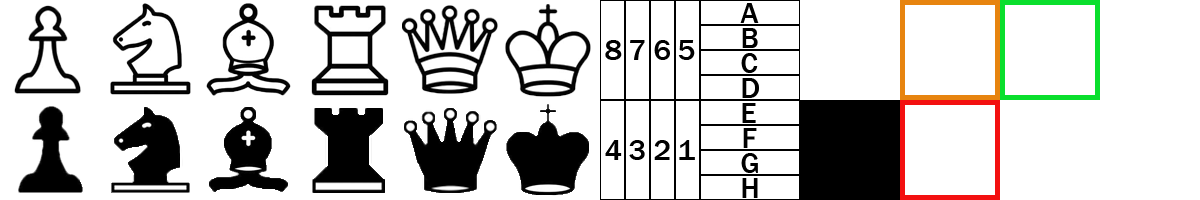
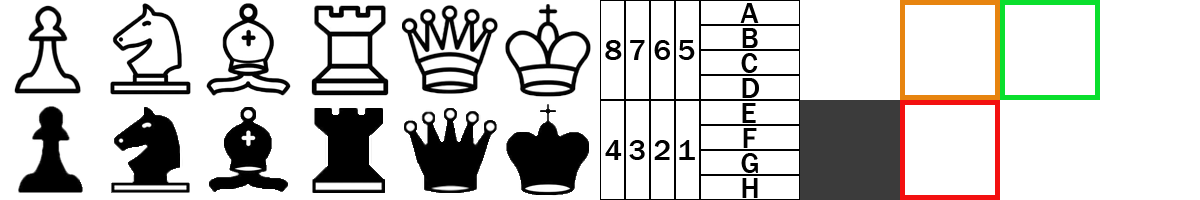
Added function handleFieldClick() - it give possiblity for user to move

Changed region(s): [[0.6475, 0.48, 0.7708, 1.0]]

diff --git a/lab_3_project/Game.cpp b/lab_3_project/Game.cpp
@@ -191,12 +191,13 @@ void Game::exec() {
 //	sf::CircleShape shape(100.f);
 //	shape.setFillColor(sf::Color::Green);
 
+	/*
 	for (std::size_t i = 0; i < 8; i++) {
 		for(std::size_t j = 0; j < 8; j++) {
 			std::cout << Point(i,j) << ": " << Point(i, j).getString() << std::endl;
 		}
 	}
-
+	*/
 //	sf::Texture texture;
 //	texture.loadFromFile("img/field.jpg");
 
@@ -223,12 +224,18 @@ void Game::exec() {
 				std::cout << "w = " << w << std::endl << std::endl;
 			}
 			*/
+			if (cur_player == Player::user) {
+				if (event.type == sf::Event::MouseButtonPressed) {
+					int x = event.mouseButton.x / w;
+					int y = event.mouseButton.y / w;
+					std::cout << "Mouse pressed: (" << event.mouseButton.x << "; " << event.mouseButton.y << ") " << " =  (" << x << "; " << y << ") " << std::endl;
 
-			if (event.type == sf::Event::MouseButtonPressed) {
-				int x = event.mouseButton.x;
-				int y = event.mouseButton.y;
-				std::cout << "Mouse pressed: (" << x << "; " << y  << ") " << std::endl;
+					if (x >= 2 && x <= 9 && y >= 1 && y <= 8) {
+						handleFieldClick(Point(x - 2, 8 - y));
+					}
+				}
 			}
+			
 		}
 
 		update(window);
@@ -814,11 +821,11 @@ void Game::displayField(sf::RenderWindow& window) {
 				cell.setTextureRect(sf::IntRect(9 * w0, w0, w0, w0));
 			}
 			else if (field.cells[i][j].selected) {
-				cell.setTextureRect(sf::IntRect(9 * w0, 0, w0, w0));
+				cell.setTextureRect(sf::IntRect(10 * w0, 0, w0, w0));
 			}
 			window.draw(cell);
 
-			// draw figure
+			// draw figures
 			Figure* f = field.cells[i][j].figure;
 			if (f) {
 				if (f->color == Color::white) {
@@ -894,4 +901,70 @@ std::string Point::getString() const {
 	
 
 	return result;
+}
+
+
+
+void Game::handleFieldClick(const Point& pos) {
+	assert(cur_player == Player::user);
+
+	Figure* figure = field.cells[pos.y][pos.x].figure; // figure in cell, on which user clicked
+	if (!selected_figure) {
+		if (figure&& figure->color == Color::white) {
+			selected_figure = figure;
+			field.putMarks(pos, movesFromPoint(pos, w_moves_count));
+		}
+		else {
+			 /////// WARNING: "choose OWN figure!!!!"
+		}
+		
+	}
+	else {
+		if (figure && figure->color == Color::white) {
+			field.clearMarks();
+			selected_figure = figure;
+			field.putMarks(pos, movesFromPoint(pos, w_moves_count));
+		}
+		else {
+			if (field.cells[pos.y][pos.x].marked || field.cells[pos.y][pos.x].possible_fight) {  // need to move
+				std::cout << selected_figure->position.getString() << " -> " << pos.getString() << std::endl;
+				Point from = selected_figure->position; // get a value for not to pass position in makeMove() by reference (cause of inctorrect behaviour: no move)
+				Figure* removed_figure = makeMove(from, pos);
+				selected_figure = nullptr;
+				w_moves_count++;
+				field.clearMarks();
+			}
+			else {
+				////// WARNING: impossible to make a move!!!!!!
+			}
+		}
+		
+	}
+}
+
+
+void Field::putMarks(const Point& selected_point, const std::vector<Point>& points) {
+	for (const Point& p : points) {
+		
+		if (this->cells[p.y][p.x].figure) {
+			this->cells[p.y][p.x].possible_fight = true;
+		}
+		else {
+			this->cells[p.y][p.x].marked = true;
+		}
+	}
+
+	this->cells[selected_point.y][selected_point.x].selected = true;
+
+}
+
+
+void Field::clearMarks() {
+	for (std::size_t i = 0; i < this->cells.size(); i++) {
+		for (std::size_t j = 0; j < this->cells[i].size(); j++) {
+			this->cells[i][j].marked = false;
+			this->cells[i][j].possible_fight = false;
+			this->cells[i][j].selected = false;
+		}
+	}
 }

diff --git a/lab_3_project/Game.h b/lab_3_project/Game.h
@@ -99,6 +99,8 @@ public:
 
 	Field() {}
 	Field(Army& white, Army& black, int size = 8);
+	void putMarks(const Point& from, const std::vector<Point>& points); 
+	void clearMarks();
 	void print();
 	/*
 	std::vector<Point> get_possible_moves(Point p, int move_number, bool consider_king = true);
@@ -131,6 +133,8 @@ private:
 	enum class Player { user, ai };
 	Player cur_player;
 	int winner; // -1 -- black, 1 -- white, 0 -- nobody
+
+	enum class Mode{game};
 	
 	Figure* selected_figure;
 
@@ -178,6 +182,11 @@ private:
 	void markAsWinner(const Army& team);
 
 	void displayField(sf::RenderWindow& window);
+
+	void handleFieldClick(const Point& pos);
+
+
+
 
 
 	void update(sf::RenderWindow& window);
